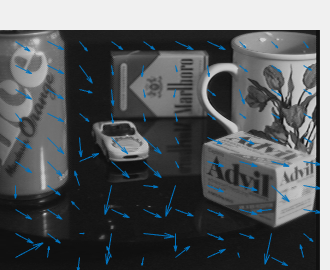
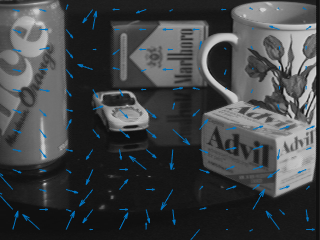
not check for boder

diff --git a/MATLAB/runHw7.m b/MATLAB/runHw7.m
@@ -46,7 +46,7 @@ img1 = imread('simple1.png');
 img2 = imread('simple2.png');
 
 search_half_window_size = 14;   % Half size of the search window
-template_half_window_size = 2; % Half size of the template window
+template_half_window_size = 4; % Half size of the template window
 grid_MN = [8, 8];              % Number of rows and cols in the grid
 
 result = computeFlow(img1, img2, search_half_window_size, template_half_window_size, grid_MN);
@@ -59,9 +59,9 @@ for i = 1:length(img_list)
     img_stack{i} = imread(img_list{i});
 end
 
-search_half_window_size = 10;   % Half size of the search window
-template_half_window_size = 4; % Half size of the template window 
-grid_MN = [10, 10];              % Number of rows and cols in the grid
+search_half_window_size = 9;   % Half size of the search window
+template_half_window_size = 3; % Half size of the template window 
+grid_MN = [12, 12];              % Number of rows and cols in the grid
 
 for i = 2:length(img_stack)
     result = computeFlow(img_stack{i-1}, img_stack{i},...
@@ -79,19 +79,19 @@ function challenge2a
 %-------------------
 data_params.data_dir = 'walking_person';
 data_params.out_dir = 'walking_person_result';
-data_params.frame_ids = [1:20];
+data_params.frame_ids = [1:100];
 data_params.genFname = @(x)([sprintf('frame%d.png', x)]);
 
 % ****** IMPORTANT ******
 % In your submission, replace the call to "chooseTarget" with actual parameters
 % to specify the target of interest
 % tracking_params.rect = chooseTarget(data_params);
-tracking_params.rect = [184 58 53 135];
+tracking_params.rect = [201 66 27 119];
 
 % Half size of the search window
-tracking_params.search_half_window_size = 20;
+tracking_params.search_half_window_size = 10;
 % Number of bins in the color histogram
-tracking_params.bin_n = 32;                    
+tracking_params.bin_n = 64;                    
 
 % Pass the parameters to trackingTester (partial implementation below)
 trackingTester(data_params, tracking_params);
@@ -103,19 +103,19 @@ function challenge2b
 %-------------------
 data_params.data_dir = 'rolling_ball';
 data_params.out_dir = 'rolling_ball_result';
-data_params.frame_ids = [1:20];
+data_params.frame_ids = [1:100];
 data_params.genFname = @(x)([sprintf('frame%d.png', x)]);
 
 % ****** IMPORTANT ******
 % In your submission, replace the call to "chooseTarget" with actual parameters
 % to specify the target of interest
-tracking_params.rect = chooseTarget(data_params);
-% tracking_params.rect = [xmin ymin width height];
+% tracking_params.rect = chooseTarget(data_params);
+tracking_params.rect = [158 136 37 35];
 
 % Half size of the search window
 tracking_params.search_half_window_size = 20;
 % Number of bins in the color histogram
-tracking_params.bin_n = 32;           
+tracking_params.bin_n = 64;           
 
 % Pass the parameters to trackingTester (partial implementation below)
 trackingTester(data_params, tracking_params);
@@ -127,14 +127,14 @@ function challenge2c
 %-------------------
 data_params.data_dir = 'basketball';
 data_params.out_dir = 'basketball_result';
-data_params.frame_ids = [1:20];
+data_params.frame_ids = [1:100];
 data_params.genFname = @(x)([sprintf('frame%d.png', x)]);
 
 % ****** IMPORTANT ******
 % In your submission, replace the call to "chooseTarget" with actual parameters
 % to specify the target of interest
-tracking_params.rect = chooseTarget(data_params);
-% tracking_params.rect = [xmin ymin width height];
+% tracking_params.rect = chooseTarget(data_params);
+tracking_params.rect = [314 232 33 83];
 
 % Half size of the search window
 tracking_params.search_half_window_size = 20;

diff --git a/MATLAB/trackingTester.m b/MATLAB/trackingTester.m
@@ -25,6 +25,12 @@ for i = 2: size(data_params.frame_ids, 2)
     search_area = cur_img(search_area_ymin:search_area_ymin+search_height-1,...
         search_area_xmin:search_area_xmin+search_width-1, :);
     search_col = im2col_rgb(search_area, [height width]);
+    
+%     size_search = size(search_area)
+%     size_temp = size(sub_img)
+%     size_scol = size(search_col)
+    
+%     imshowpair(search_area, sub_img, 'montage')
         
     hist_mat = zeros(size(search_col, 2), tracking_params.bin_n);
     corr_vec = [];
@@ -35,8 +41,16 @@ for i = 2: size(data_params.frame_ids, 2)
         corr_vec = [corr_vec; correlation(color_hist, N)];
     end
     
-    max_corr = max(corr_vec)
-    max_ind = find(corr_vec == max_corr)
+%     size_hist = size(hist_mat)
+%     
+%     c = normxcorr2(color_hist, hist_mat);
+%     b_max_corr = max(c(:))
+%     [ypeak, xpeak] = find(c==b_max_corr)
+%     yoffSet = ypeak-size(color_hist,1)
+%     xoffSet = xpeak-size(color_hist,2)
+    
+    max_corr = max(corr_vec);
+    max_ind = find(corr_vec == max_corr);
     
     move = search_height - height + 1;
     xmin = search_area_xmin + int32(max_ind/move);
@@ -49,6 +63,10 @@ for i = 2: size(data_params.frame_ids, 2)
 %     box_img2 = drawBox(box_img, [search_area_xmin search_area_ymin search_width search_height], [0 255 0], 3);
     figure, imshow(box_img);
     
+%     sub_image = cur_img(ymin:ymin+height-1, xmin:xmin+width-1, :);
+%     [index_sub_img, map] = rgb2ind(sub_img, tracking_params.bin_n);
+%     [color_hist, edges] = histcounts(index_sub_img, tracking_params.bin_n);
+        
 end
 
 function B = im2col_rgb(img, sz, varargin)

diff --git a/MATLAB/computeFlow.m b/MATLAB/computeFlow.m
@@ -13,20 +13,34 @@ v = [];
 
 for i = row_space:row_space:size(img1, 1)
     for j = col_space:col_space:size(img1, 2)
-        row_ind = i-row_space/2;
-        col_ind = j-col_space/2;
+        row_ind = i-row_space/2
+        col_ind = j-col_space/2
         
         template = img1(row_ind-template_radius:row_ind+template_radius, ...
             col_ind-template_radius:col_ind+template_radius);
         window = img2(row_ind-win_radius:row_ind+win_radius, ...
             col_ind-win_radius:col_ind+win_radius);
         
+%         imshowpair(window,template,'montage')
+        
         c = normxcorr2(template, window);
+%         tmp_size = size(template)
+%         win_size = size(window)
+%         c_size = size(c)
+        
+%         figure, surf(c), shading flat
+        
         [row_peak, col_peak] = find(c==max(c(:)));
-        row_peak = row_peak(1);
-        col_peak = col_peak(1);
-        row_crp = row_ind-win_radius+row_peak;
-        col_crp = col_ind-win_radius+col_peak;
+        row_peak = row_peak(1) - size(template, 1)
+        col_peak = col_peak(1) - size(template, 2)
+        
+        row_crp = template_radius+row_peak+(row_ind-win_radius)
+        col_crp = template_radius+col_peak+(col_ind-win_radius)
+        
+%         hFig = figure;
+%         hAx  = axes;
+%         imshow(window,'Parent', hAx);
+%         imrect(hAx, [col_peak+1, row_peak+1, size(template,2), size(template,1)]);
         
         x = [x; col_ind];
         y = [y; row_ind];
@@ -34,6 +48,7 @@ for i = row_space:row_space:size(img1, 1)
         v = [v; row_crp-row_ind];
         
     end
+    
 end
 
 fh = figure();
